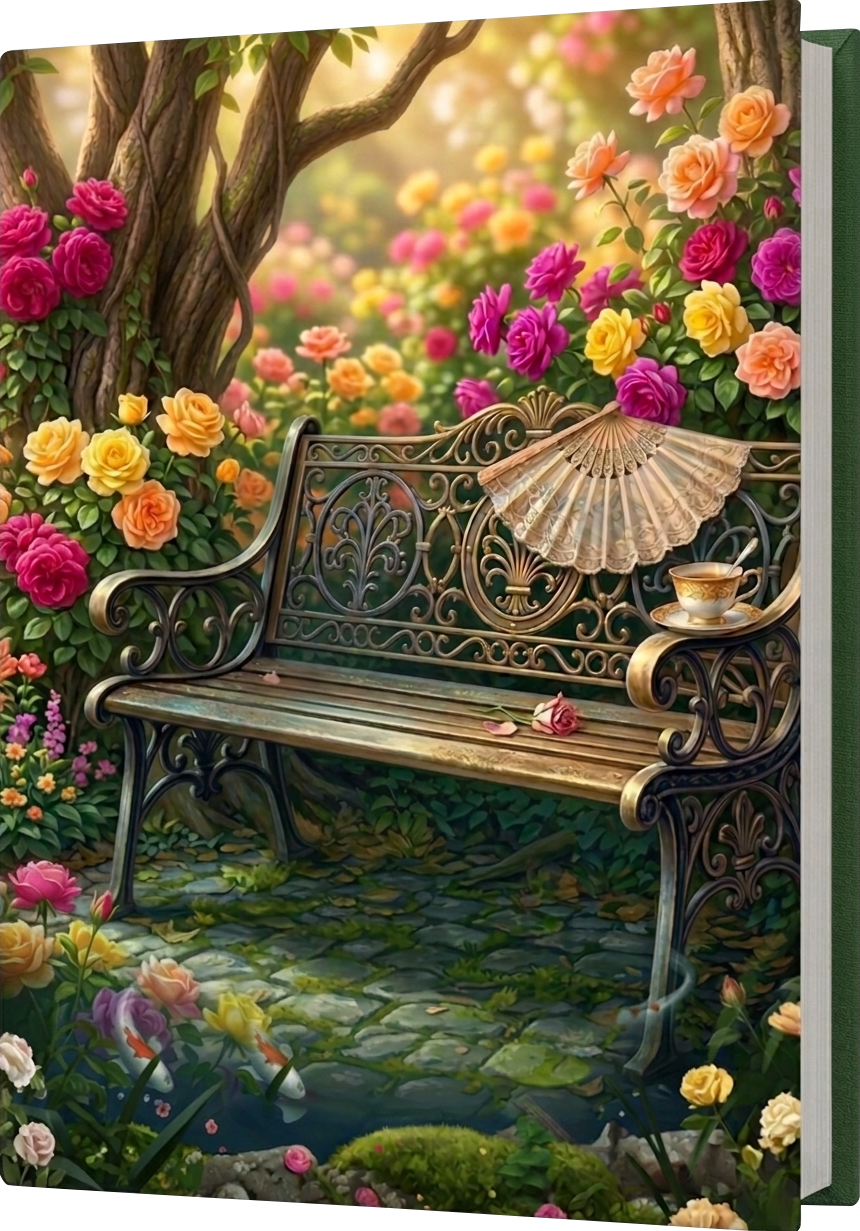
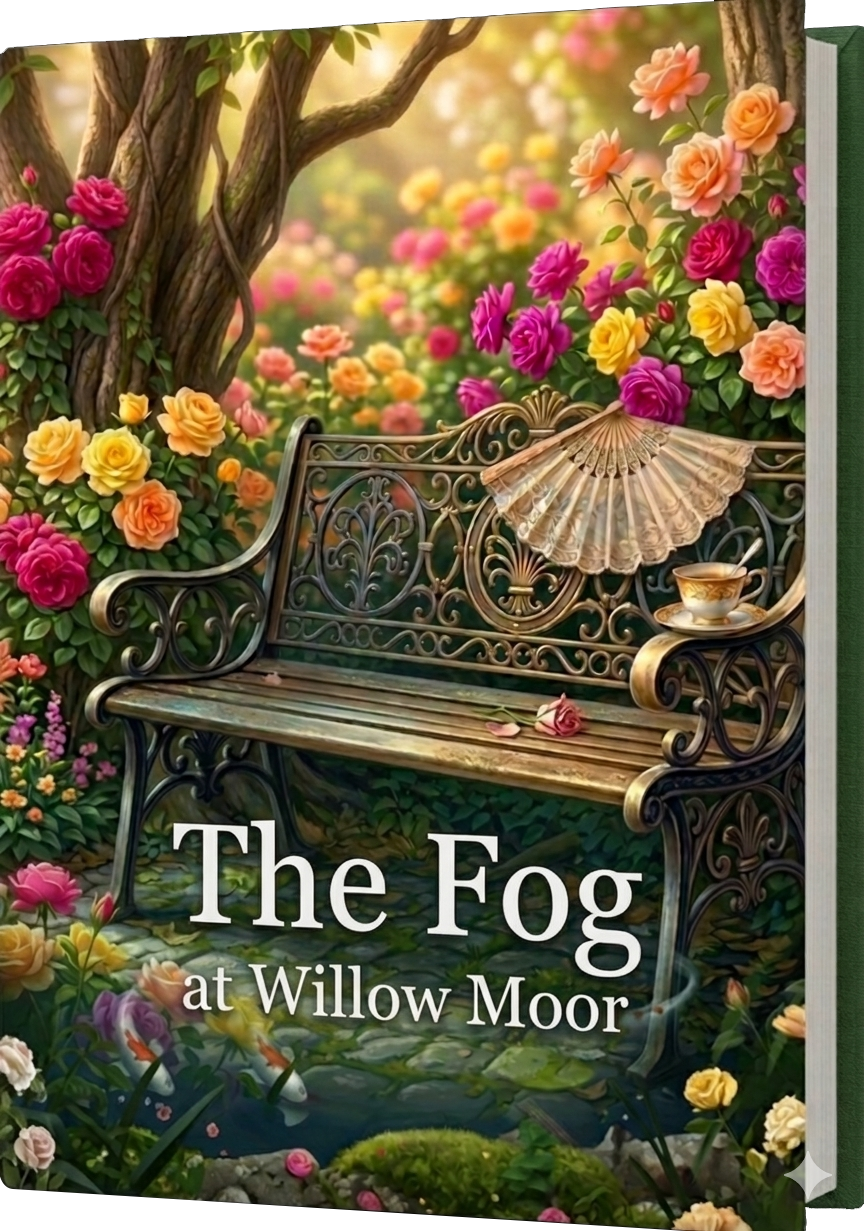
images change in home page

diff --git a/resources/js/Components/StoryOfTheMonth.jsx b/resources/js/Components/StoryOfTheMonth.jsx
@@ -3,13 +3,6 @@ import Slider from "react-slick";
 import { Icons } from '../utils/icons';
 const stories = [
   {
-    title: "Death at Fallow End",
-    subtitle: "In the style of Martha Grimes",
-    description:
-      "The village of Fallow End never expected to make the papers. It was the sort of place that looked designed for biscuit tins: hedgerows blooming where no one planted them, honey-colored cottages with mossy slate roofs, and a high street so picturesque it was legally impossible to walk it without someone waving. The pub had beams older than the Queen’s English, and the bakery’s scones were the subject of regional debate.",
-    image: "/assets/images/story-month-right-01.png",
-  },
-  {
     title: "The Fog at Willow Moor",
     subtitle: "In the style of Agatha Christie",
     description:
@@ -35,7 +28,7 @@ const NextArrow = ({ onClick }) => (
 const StoryOfTheMonth = () => {
   const sliderRef = useRef(null);
   const settings = {
-    dots: true,
+    dots: false,
     arrows: false,
     fade: true,
     infinite: true,
@@ -69,14 +62,14 @@ const StoryOfTheMonth = () => {
             {/* Left Column with Text & Arrows */}
             <div className="col-lg-6 position-relative">
               {/* Arrows Positioned Inside the Column */}
-              <div className="story-month-custom-arrows d-flex gap-3 mb-4" style={{ top: 0, right: 0 }}>
+              {/* <div className="story-month-custom-arrows d-flex gap-3 mb-4" style={{ top: 0, right: 0 }}>
                 <div className="prev-arrow" onClick={() => sliderRef.current.slickPrev()}>
                   <Icons.ArrowLeft className="text-white fs-30" />
                 </div>
                 <div className="next-arrow" onClick={() => sliderRef.current.slickNext()}>
                   <Icons.ArrowRight className="text-white fs-30" />
                 </div>
-              </div>
+              </div> */}
 
               <Slider ref={sliderRef} {...settings}>
                 {stories.map((story, index) => (

diff --git a/resources/js/Pages/Community/Index.jsx b/resources/js/Pages/Community/Index.jsx
@@ -4,6 +4,7 @@ import Layout from '@/Layouts/Layout';
 import LikeCount from '@/Components/stories/LikeCount';
 import { debounce } from 'lodash';
 import '@/assets/styles/stories.css';
+import { DEFAULT_COVER_IMAGE, onCoverImageError } from '@/utils/imageFallback';
 
 export default function CommunityIndex({ stories, genres, filters, ratings }) {
   const [search, setSearch] = useState(filters.search || '');
@@ -117,15 +118,10 @@ export default function CommunityIndex({ stories, genres, filters, ratings }) {
                   <div className="cards" data-aos-duration="3000" data-aos="flip-left">
                     <div className="dynamic-cover-wrapper">
                     <img
-                      src={story.cover_image ? `/storage/${story.cover_image}` : '/assets/images/book-03.png'}
+                      src={story.cover_image_url || (story.cover_image ? `/storage/${story.cover_image}` : DEFAULT_COVER_IMAGE)}
                       className="mb-20 w-100 story-book-img"
                       alt={story.title}
-                      onError={(e) => {
-                        const fallbackImages = [
-                          "/assets/images/image-not-found.png",
-                        ];
-                        e.target.src = fallbackImages[Math.floor(Math.random() * fallbackImages.length)];
-                      }}
+                      onError={onCoverImageError}
                       />
                       </div>
                     <div className="d-flex align-items-center justify-content-between mb-10">

diff --git a/resources/js/Components/Book.jsx b/resources/js/Components/Book.jsx
@@ -1,6 +1,7 @@
 import React, { forwardRef } from "react";
 import HTMLFlipBook from "react-pageflip";
 import "../../css/book.css";
+import { DEFAULT_COVER_IMAGE, onCoverImageError } from "@/utils/imageFallback";
 
 
 const Book = forwardRef(({ pages = [], onInit, onFlip, coverImage, backcoverImage, allowCloseAfterBackCover = true }, bookRef) => {
@@ -9,7 +10,7 @@ const Book = forwardRef(({ pages = [], onInit, onFlip, coverImage, backcoverImag
         // Front Cover
         // add a background image instead of the image tag
         <div key="front-cover" className="book-cover front-cover">
-            <div className="cover-image" style={{ backgroundImage: `url(${coverImage || "/assets/images/default-cover.jpg"})`, backgroundSize: 'cover', }}></div>,
+            <div className="cover-image" style={{ backgroundImage: `url(${coverImage || DEFAULT_COVER_IMAGE})`, backgroundSize: 'cover', }}></div>,
         </div>,
 
         // Story Pages
@@ -22,9 +23,10 @@ const Book = forwardRef(({ pages = [], onInit, onFlip, coverImage, backcoverImag
         // Back Cover
         <div key="back-cover" className="book-cover back-cover">
             <img
-                src={backcoverImage || "/assets/images/default-cover.jpg"}
+                src={backcoverImage || DEFAULT_COVER_IMAGE}
                 alt="Back Cover"
                 className="cover-image"
+                onError={onCoverImageError}
             />
         </div>,
     ];

diff --git a/resources/js/Pages/Community/Show.jsx b/resources/js/Pages/Community/Show.jsx
@@ -7,6 +7,7 @@ import '@/assets/styles/stories.css';
 import '@/assets/styles/story-read.css';
 import '@/assets/styles/comments.css';
 import LikeCount from '@/Components/stories/LikeCount';
+import { DEFAULT_COVER_IMAGE, onCoverImageError } from '@/utils/imageFallback';
 
 
 export default function CommunityShow({ story }) {
@@ -49,12 +50,10 @@ export default function CommunityShow({ story }) {
                 <div className="row">
                   <div className="col-md-4 mb-4 mb-md-0">
                     <img
-                      src={story.cover_image ? `/storage/${story.cover_image}` : '/assets/images/book-03.png'}
+                      src={story.cover_image_url || (story.cover_image ? `/storage/${story.cover_image}` : DEFAULT_COVER_IMAGE)}
                       alt={story.title}
                       className="img-fluid w-100 rounded-3 mb-3"
-                      onError={(e) => {
-                        e.target.src = "/assets/images/book-03.png";
-                      }}
+                      onError={onCoverImageError}
                     />
                     <div className="d-flex justify-content-between align-items-center mb-3">
                       <span className="fs-14 secondry-font">

diff --git a/resources/js/Pages/Stories/Index.jsx b/resources/js/Pages/Stories/Index.jsx
@@ -5,6 +5,7 @@ import LikeCount from '@/Components/stories/LikeCount';
 import { debounce } from 'lodash';
 import Swal from 'sweetalert2';
 import '@/assets/styles/stories.css';
+import { DEFAULT_COVER_IMAGE, onCoverImageError } from '@/utils/imageFallback';
 
 const FAQ_ITEMS = [
   {
@@ -222,12 +223,10 @@ export default function Index({ stories, filters, flash, categoryPage = null }) 
                         </div>
                       )}
                       <img
-                        src={story.cover_image_url || (story.cover_image ? `/storage/${story.cover_image}` : '/assets/images/default-cover.jpg')}
+                        src={story.cover_image_url || (story.cover_image ? `/storage/${story.cover_image}` : DEFAULT_COVER_IMAGE)}
                         className="mb-20 w-100 story-book-img"
                         alt={story.title}
-                        onError={(e) => {
-                          e.target.src = '/assets/images/default-cover.jpg';
-                        }}
+                        onError={onCoverImageError}
                       />
                     </div>
                     <div className="d-flex align-items-center justify-content-between mb-10">

diff --git a/resources/js/Pages/Stories/Publish/Form.jsx b/resources/js/Pages/Stories/Publish/Form.jsx
@@ -6,6 +6,7 @@ import { Head, router, usePage } from '@inertiajs/react'
 import TextInput from '@/Components/TextInput';
 import Swal from 'sweetalert2';
 import { Icons } from '@/utils/icons';
+import { onCoverImageError } from '@/utils/imageFallback';
 
 const stripePromise = loadStripe(import.meta.env.VITE_STRIPE_KEY);
 
@@ -408,7 +409,7 @@ const Form = ({ prefill, story, package: packageData, ratings = [] }) => {
                 <div className="col-md-12">
                   <div className="field-wrapper">
                     <label className='label-field d-block' htmlFor="title">Cover Image</label>
-                    <img src={story.cover_image ? `/storage/${story.cover_image}` : '/assets/images/default-cover.jpg'} alt="" className='img-fluid object-fit-cover' style={{ maxHeight: '100px' }} />
+                    <img src={story.cover_image ? `/storage/${story.cover_image}` : '/assets/images/image-not-available.jpg'} alt="" className='img-fluid object-fit-cover' style={{ maxHeight: '100px' }} onError={onCoverImageError} />
                   </div>
                   <div className="field-wrapper">
                     <label className='label-field' htmlFor="title">Title</label>

diff --git a/resources/js/Pages/user/stories/Index.jsx b/resources/js/Pages/user/stories/Index.jsx
@@ -2,6 +2,7 @@ import React, { useState, useEffect } from 'react'
 import { Head, router, Link } from '@inertiajs/react'
 import DashboardLayout from '../../../Layouts/DashboardLayout';
 import { Icons } from '../../../utils/icons';
+import { DEFAULT_COVER_IMAGE, onCoverImageError } from '@/utils/imageFallback';
 import Swal from 'sweetalert2';
 import {
   CButton,
@@ -170,14 +171,13 @@ const Index = ({ communityStories, publishedStories, publishRequests, flash }) =
                 alt={story.title}
                 className="me-3"
                 style={{ width: '50px', height: '50px', objectFit: 'cover', borderRadius: '8px' }}
-                onError={(e) => {
-                  e.target.src = '/assets/images/book-03.png';
-                }}
+                onError={onCoverImageError}
               />
             ) : (
               <img
-                src="/assets/images/book-03.png"
+                src={DEFAULT_COVER_IMAGE}
                 alt="Default cover"
+                onError={onCoverImageError}
                 className="me-3"
                 style={{ width: '50px', height: '50px', objectFit: 'cover', borderRadius: '8px' }}
               />

diff --git a/resources/js/Pages/Blog/Index.jsx b/resources/js/Pages/Blog/Index.jsx
@@ -3,7 +3,7 @@ import Layout from '@/Layouts/Layout';
 import { Head, Link } from '@inertiajs/react';
 import '@/assets/styles/stories.css';
 
-const DEFAULT_COVER = '/assets/images/default-cover.jpg';
+import { DEFAULT_COVER_IMAGE, onCoverImageError } from '@/utils/imageFallback';
 
 const Index = ({ posts }) => {
   return (
@@ -57,12 +57,10 @@ const Index = ({ posts }) => {
                       )}
                       <Link href={route('blog.show', post.slug)} className="d-block text-black">
                         <img
-                          src={post.featured_image || DEFAULT_COVER}
+                          src={post.featured_image || DEFAULT_COVER_IMAGE}
                           className="mb-20 w-100 story-book-img"
                           alt=""
-                          onError={(e) => {
-                            e.target.src = DEFAULT_COVER;
-                          }}
+                          onError={onCoverImageError}
                         />
                       </Link>
                     </div>

diff --git a/resources/js/utils/imageFallback.js b/resources/js/utils/imageFallback.js
@@ -1,0 +1,13 @@
+/** Must exist under public/assets/images */
+export const DEFAULT_COVER_IMAGE = '/assets/images/banner-card-01.webp';
+
+/** Stops infinite onError loops when fallback is missing or returns non-image (e.g. 302 HTML). */
+export function onCoverImageError(event) {
+  const img = event.currentTarget;
+  if (img.dataset.fallbackApplied === '1') {
+    img.onerror = null;
+    return;
+  }
+  img.dataset.fallbackApplied = '1';
+  img.src = DEFAULT_COVER_IMAGE;
+}

diff --git a/resources/js/assets/styles/style.css b/resources/js/assets/styles/style.css
@@ -1885,6 +1885,17 @@ h6 {
 .stories-sec {
     padding-bottom: 50px !important;
 }
+.story-month-right-title {
+    position: absolute;
+    bottom: 0;
+    left: 50%;
+    transform: translateX(-50%);
+    font-size: 40px;
+    font-weight: 500;
+    color: #fff;
+    text-align: center;
+    width: 100%;
+}
 /* responsive */
 @media (min-width: 1560px) {
     .container {
